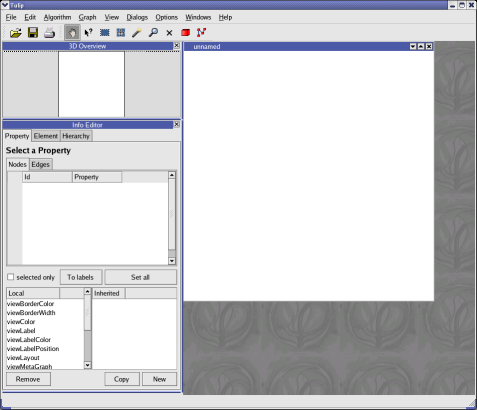
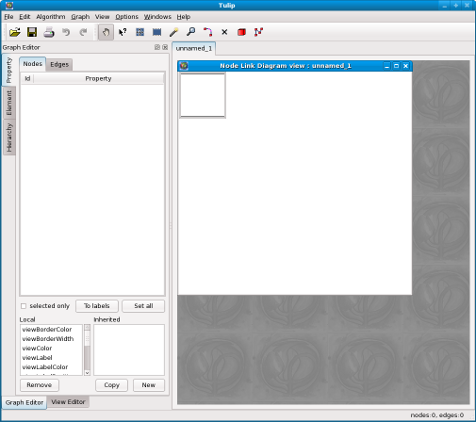
- modify doc - modify name of Graph/View editor in tulip menu - modify doc on interactors

diff --git a/library/tulip-qt/src/MainController.cpp b/library/tulip-qt/src/MainController.cpp
@@ -716,9 +716,9 @@ namespace tlp {
     morphingAction->setCheckable(true);
     morphingAction->setChecked(false);
     optionsMenu->addSeparator();
-    QAction *propertiesDockAction = optionsMenu->addAction("Show properties dock");
+    QAction *propertiesDockAction = optionsMenu->addAction("Show graph editor");
     connect(propertiesDockAction,SIGNAL(triggered()),tabWidgetDock,SLOT(show()));
-    QAction *configurationDockAction = optionsMenu->addAction("Show configuration dock");
+    QAction *configurationDockAction = optionsMenu->addAction("Show view editor");
     connect(configurationDockAction,SIGNAL(triggered()),configWidgetDock,SLOT(show()));
     mainWindowFacade.getMenuBar()->insertMenu(windowAction,optionsMenu);
 

diff --git a/library/tulip-qt/src/GlMainViewInteractor.cpp b/library/tulip-qt/src/GlMainViewInteractor.cpp
@@ -49,7 +49,7 @@ void InteractorNavigation::construct(){
 InteractorGetInformation::InteractorGetInformation():NodeLinkDiagramComponentInteractor(":/i_select.png","Get information on nodes/edges"){
   setPriority(4);
   setConfigurationWidgetText(QString("<h3>Get information interactor</h3>")+
-			     "Click on an element to display its property");
+			     "Click on an element to display its properties");
 }
 
 void InteractorGetInformation::construct(){
